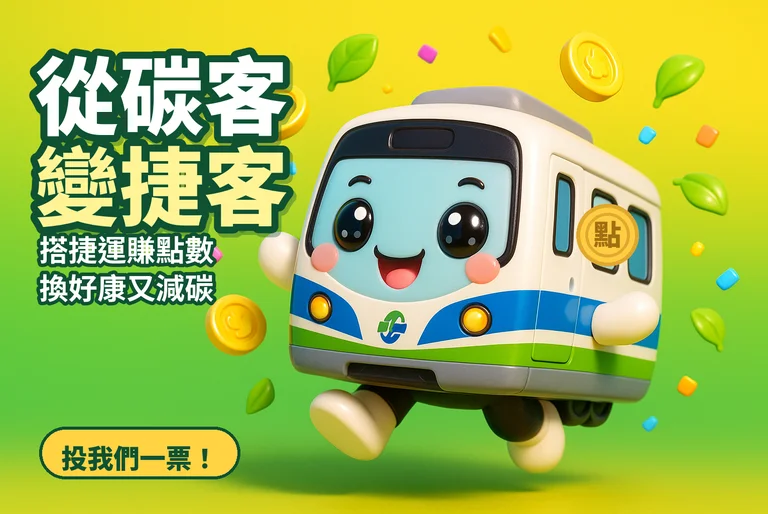
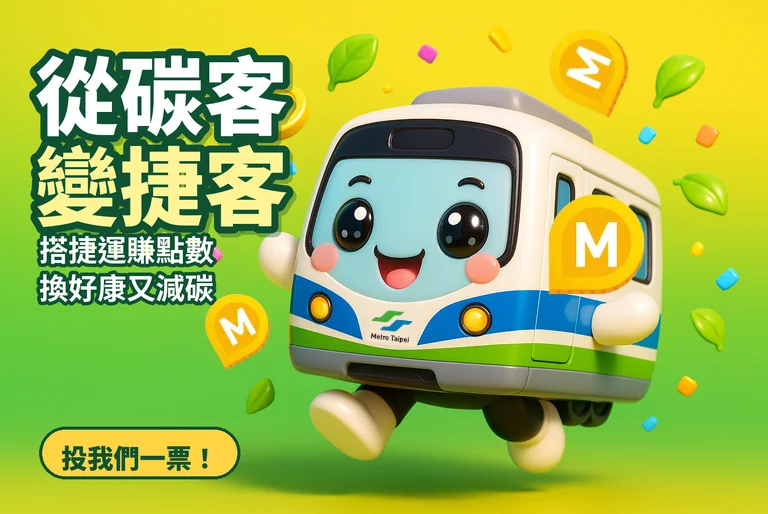
feat: update assets/voting/online-voting/vote-submit-v2-A-mascot-768x...
by Sofia Yan & Omni

diff --git a/.omni/78ecb4fc-untitled/memory.md b/.omni/78ecb4fc-untitled/memory.md
@@ -22,17 +22,17 @@
 
 ## Key Discoveries
 
-- 線上投票提交草稿在 `personal-auto/online-voting-submission.md`；2026-07-27 依 Sofia 回饋「不夠吸睛」全面重製為 v2 三版：v2-A 3D 吉祥物、v2-B 普普爆點海報、v2-C 電影感實景（檔名 `vote-submit-v2-*-768x514.png`），底圖用 gpt-image-1 生成、繁中文字以 Noto Sans TC 程式合成避免 AI 錯字；建議主投 v2-A。2026-07-27 已將 Cloudflare Pages `https://from-carbon-metro-vote.pages.dev/` 改成 v2-A 風格民眾投票展示頁，互動 prototype 在同站內 `/demo/`；已全面地毯式清除展示頁的內部/開發開發人員語言。為提升首頁首屏加載速度，已將主圖優化為 50.8 KB WebP（縮減 90%）並採用 WebP 預載，且 PNG 備份也壓縮至 123.8 KB。公開 URL、手機 UA、優化後主圖、agent-readiness 檔、離線備援包與 demo smoke test 均通過。GitHub Pages production 仍是舊版，`from-carbon-to-metro` 本地分支 ahead，且 GitHub API 認證回 401。
-- Prototype 核心與終端術語升級：地毯式清除「綠點／綠章」舊詞彙，全面統一為「捷運點／捷運章」與決賽提案一致。實作「捷運點與減碳排雙向聯動機制」，完成情境任務（如借傘、補電、時租會議亭、蛋糕補給）能同步累積減碳量並動態觸發乘數倍率 Level Up 特效；並針對花點（點數消耗）需求，全新實作「已選推薦店家詳情與花點兌換（App 換券）」與「我的票券夾（Me Tab Wallet）」，直接可在手機中模擬扣點換券、出示核銷條碼，展示 earn-to-spend 完整永續商業閉環。
+- 線上投票提交草稿在 `personal-auto/online-voting-submission.md`；2026-07-27 依 Sofia 回饋「不夠吸睛」全面重製為 v2 三版，最終選用 v2-A（3D 吉祥物風格，更換為最新的 `捷客松_1.png` 官方正確視覺並極致壓縮至 51.7 KB WebP）。2026-07-27 已將 Cloudflare Pages `https://from-carbon-metro-vote.pages.dev/` 部署為民眾投票展示頁，互動 prototype 在同站內 `/demo/`；已全面清除內部/開發人員語言。展示頁已整合 Omni Edge 官方技術支持（連結至 https://edge.omniai.one/zh-TW/）與高質感 inline SVG 標誌、自製精美「捷運點」金幣與綠葉旋轉動畫，卡片 Neo-brutalism 浮動等普普風小動畫。針對手機移動端，已全面修復「一趟車，三個收穫」在極窄寬度下的疊加/遮擋 Bug（優化 z-index 階層並縮小手機版 Phone 尺寸，使文字 100% 完美呈現），且點擊目標加大觸控安全範圍，在捷運 App 內置瀏覽器中開啟能獲得極佳的響應式單手操作體驗。公開 URL、手機 UA、離線備援包（from-carbon-to-metro-offline.zip）與 smoke test 均通過。GitHub Pages production 仍是舊版，`from-carbon-to-metro` 本地分支 ahead，且 GitHub API 認證回 401。
 - 2026-07-27 Prototype 已補齊決賽提案 v2 / 工作坊討論的五項核心缺口：104/75/29 可配置碳係數、3 題 opt-in 偏好 onboarding、完成通勤後出站推播、U-Sport/U-Walk/YouBike 健康共享生活圈任務，以及北捷/合作方 dashboard（觸及、導客、招商加值、換券、核銷、健康共享任務）；GitHub Pages production 仍因 GitHub API 401 未更新，但線上投票展示備援已部署至 Cloudflare Pages `https://from-carbon-metro-vote.pages.dev/` 並通過公開 URL browser smoke test。
-- `from-carbon-to-metro/index.html` 的 bundler template script 需將 raw JSON 內的 literal `<` 序列化為 `\u003c`；DC runtime 會 `fetch(location.href)` 並用 regex 搜 `<x-dc>`，若外層 bundle raw script 留有 literal `<x-dc>`，會誤解析 JSON 字串內的 template，導致 React `onClick` 收到 string 並在點擊時出現 `[bundle] Script error`。
-- 捷運盃黑客松工作坊簡報已建立於 `personal-auto/workshop-presentation.html`，內容依 Google Doc 提案「從碳客變捷客」整理；使用 `assets/fonts/NotoSansCJKtc-Workshop.woff2` 子集字型確保繁中離線顯示。
 - 共享經濟／健康減碳方向提案已整理為台北捷運審閱版 `personal-auto/metro-shared-health-proposal.html`；定位為「捷運健康共享生活圈」，以捷運點承接 U-Sport／U-Walk、YouBike、raingo、旅電／ChargeSPOT、亞尼克 YTM 與悠遊付第二階段合作場景，已新增 ESG 敘事與首年財務試算（基準：合作金流 2,270 萬、支出 1,525 萬、可支應營運餘額 745 萬，待北捷確認）；文案已移除 v3／新版比較語氣；同檔使用 `assets/fonts/NotoSansCJKtc-MetroShared-*.woff2` 子集字型避免繁中缺字。
-- 點數商業模式研究報告已建立於 `personal-auto/points-business-model-report.html`：涵蓋 OPENPOINT、Hami Point、LINE POINTS、台灣星巴克、Rakuten、Marriott Bonvoy，以及 IFRS 15／點數負債與 breakage 風險；可作為捷運提案與 prototype 的研究底稿。
-- 北捷站內即時補給與空間租賃公開案例可分為甜點／餐飲自助機（亞尼克 YTM、Yo-Kai）、補電（旅電、ChargeSPOT 及充電線）、共享傘（raingo）、香氛試香機（TRICENT）、客製悠遊卡、珠寶禮品、手機線材／配件、智慧生活站、快閃櫃、快剪與小樹屋電話亭等；可包成「租賃廠商可被 Go App 推播／Go!Map 標記／捷運點券導客」的招商加值，但租賃點位自有行銷與第三方廣告需依北捷審查邊界標示。
 - 決賽提案 v2 Google Doc：`1wIR6SyXYyqJVXteGhcC-kcH68appxkIu30gKcIYjg8g`（工作坊調整版，v1→v2 對照表在文件開頭）。決賽簡報初稿 Google Slides：`1_MIRSbXIKBMvQkZTQPgr2GkFS6UrxYYh1440pvbjUEc`（15 頁，以 GWS DWD 用 Sofia 身份建立，可由 Slides 直接下載 .pptx）。
-- 原版企劃書 `personal-auto/2026捷運盃黑客松_提案企劃書_綠點導航.docx` 的 ESG 內容集中在「綠點導航／碳足跡回饋／國泰世華 ESG 聯名／全市減碳量」；決賽口徑宜改掛到 AI 站點情境助理、捷運點減碳加成與北捷可衡量站點導客。
+- Prototype 核心與終端術語升級：地毯式清除「綠點／綠章」舊詞彙，全面統一為「捷運點／捷運章」與決賽提案一致。實作「捷運點與減碳排雙向聯動機制」，完成情境任務（如借傘、補電、時租會議亭、蛋糕補給）能同步累積減碳量並動態觸發乘數倍率 Level Up 特效；並針對花點（點數消耗）需求，全新實作「已選推薦店家詳情與花點兌換（App 換券）」與「我的票券夾（Me Tab Wallet）」，直接可在手機中模擬扣點換券、出示核銷條碼，展示 earn-to-spend 完整永續商業閉環。
+- 北捷站內即時補給與空間租賃公開案例可分為甜點／餐飲自助機（亞尼克 YTM、Yo-Kai）、補電（旅電、ChargeSPOT 及充電線）、共享傘（raingo）、香氛試香機（TRICENT）、客製悠遊卡、珠寶禮品、手機線材／配件、智慧生活站、快閃櫃、快剪與小樹屋電話亭等；可包成「租賃廠商可被 Go App 推播／Go!Map 標記／捷運點券導客」的招商加值，但租賃點位自有行銷與第三方廣告需依北捷審查邊界標示。
 - 捷運盃工作坊與後續點數討論整理於 `personal-auto/workshop-discussion-notes.md`；核心 pivot 是從「泛綠點」收斂為「捷運點減碳加成 + 精準推播導客 + 北捷可變現行銷方案」，並需改用北捷口述碳係數 104/75/29（待正式確認）。
+- 原版企劃書 `personal-auto/2026捷運盃黑客松_提案企劃書_綠點導航.docx` 的 ESG 內容集中在「綠點導航／碳足跡回饋／國泰世華 ESG 聯名／全市減碳量」；決賽口徑宜改掛到 AI 站點情境助理、捷運點減碳加成與北捷可衡量站點導客。
+- 捷運盃黑客松工作坊簡報已建立於 `personal-auto/workshop-presentation.html`，內容依 Google Doc 提案「從碳客變捷客」整理；使用 `assets/fonts/NotoSansCJKtc-Workshop.woff2` 子集字型確保繁中離線顯示。
+- 點數商業模式研究報告已建立於 `personal-auto/points-business-model-report.html`：涵蓋 OPENPOINT、Hami Point、LINE POINTS、台灣星巴克、Rakuten、Marriott Bonvoy，以及 IFRS 15／點數負債與 breakage 風險；可作為捷運提案與 prototype 的研究底稿。
+- `from-carbon-to-metro/index.html` 的 bundler template script 需將 raw JSON 內的 literal `<` 序列化為 `\u003c`；DC runtime 會 `fetch(location.href)` 並用 regex 搜 `<x-dc>`，若外層 bundle raw script 留有 literal `<x-dc>`，會誤解析 JSON 字串內的 template，導致 React `onClick` 收到 string 並在點擊時出現 `[bundle] Script error`。
 
 ## Installed Skills
 
@@ -71,4 +71,4 @@
 
 
 ---
-_Last system refresh: 2026-07-27 09:15 UTC_
+_Last system refresh: 2026-07-27 10:22 UTC_
